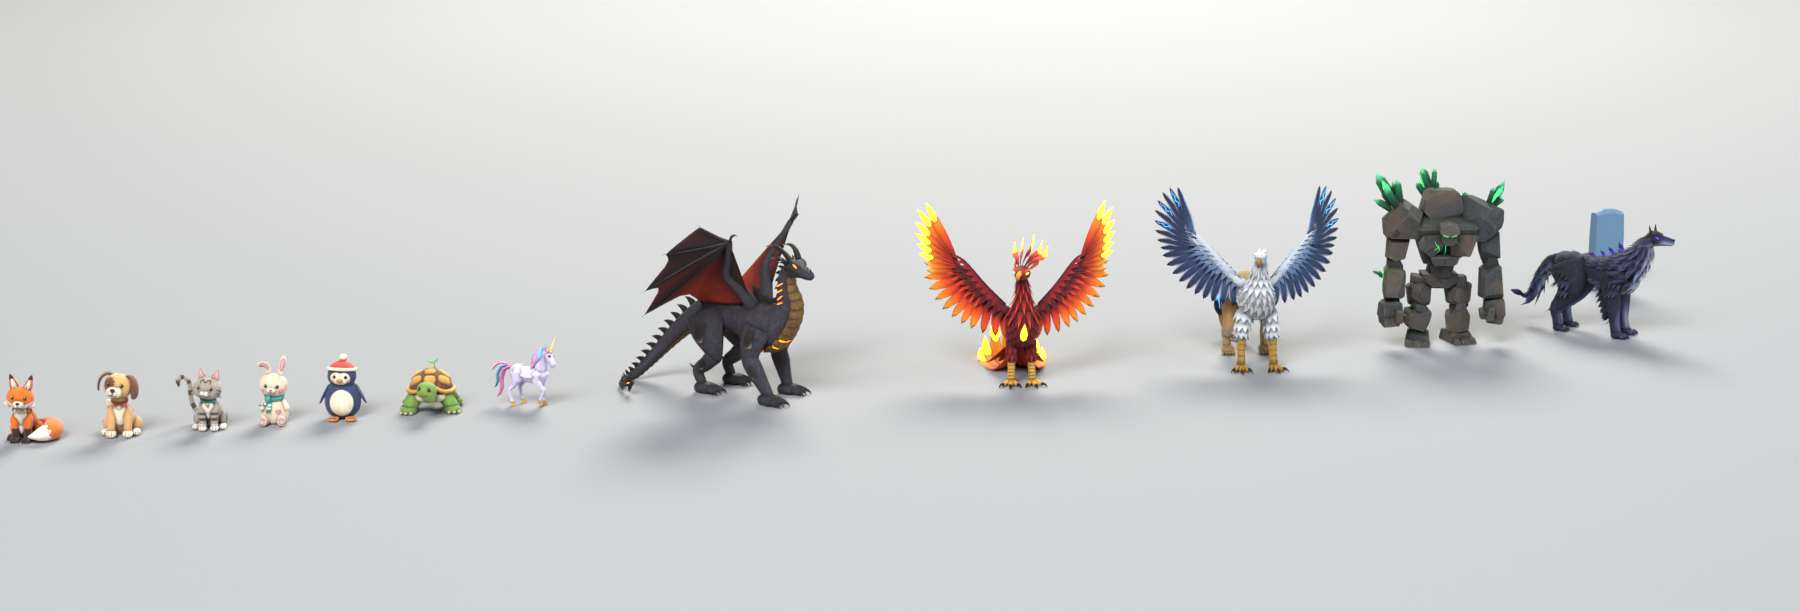
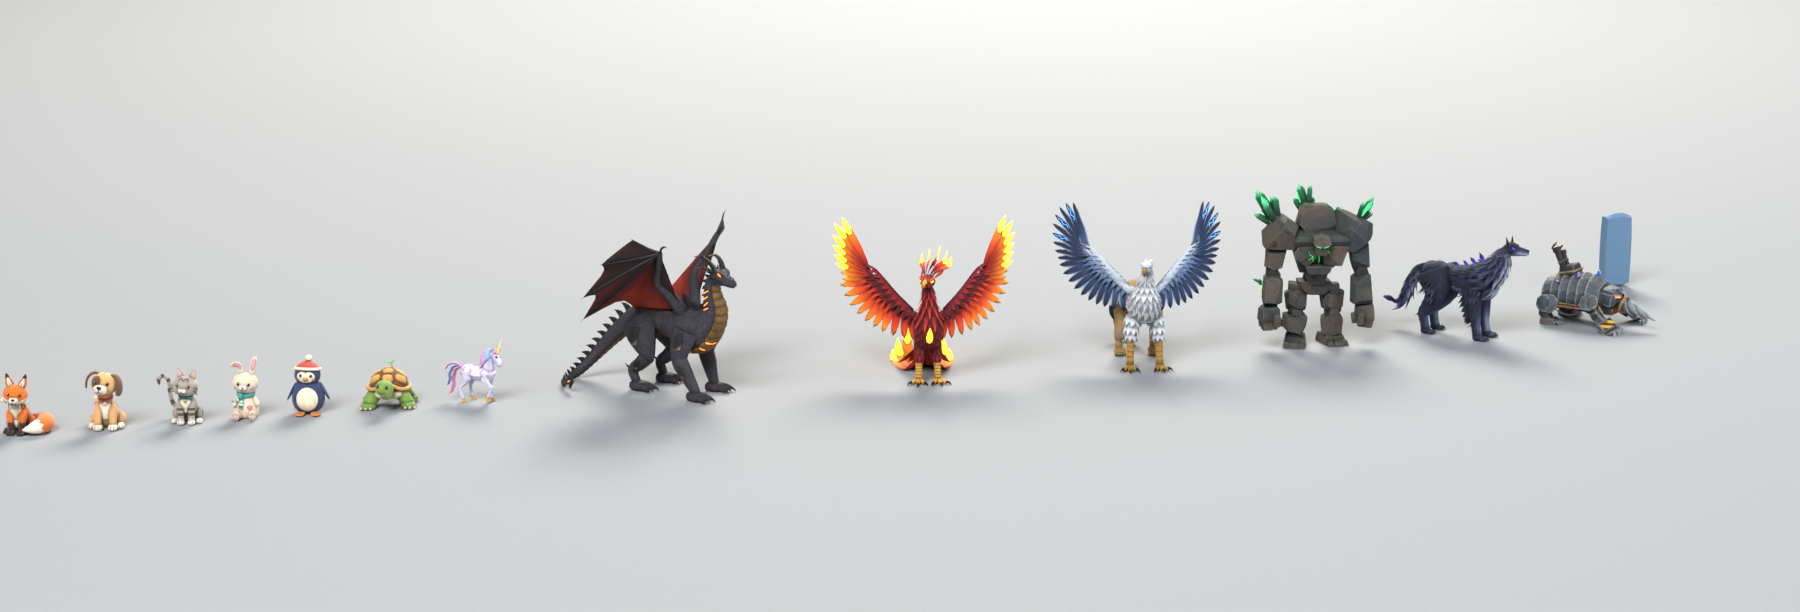
Add the Driller to the line-up; aim the line-up camera further left
The camera looks along the row from the left, so the near end looks
bigger; with thirteen pets the fox ran off the frame.

Claude-Session: https://claude.ai/code/session_01Tr4aekcXkj31yo2RpojRp4

Changed region(s): [[0.0, 0.2794, 0.9333, 0.7451]]

diff --git a/models/lineup.py b/models/lineup.py
@@ -74,10 +74,10 @@ def main():
     rig.ground.scale = (6, 6, 1)                         # a long row would otherwise run off the edge of the floor
     lo, hi = group.bounds()
     wide, tall = hi.x - lo.x + 3.2, hi.z - lo.z          # room for the 5-stud block on the right
-    target = Vector(((lo.x + hi.x) / 2 + 0.9, 0, lo.z + tall * 0.4))
+    target = Vector(((lo.x + hi.x) / 2 - 1.0, 0, lo.z + tall * 0.4))  # left of centre: the near (left) end looks bigger
     half = math.radians(15)
     aspect = min(0.6, max(0.34, (tall * 1.35 + 0.8) / wide))
-    away = (wide / 2 + 0.6) / math.tan(half)
+    away = (wide / 2 + 1.0) / math.tan(half)
     cam = review._camera("C_lineup", target + Vector((-0.28, -1.0, 0.24)).normalized() * away, target, 30)
     sc = bpy.context.scene
     sc.camera = cam
